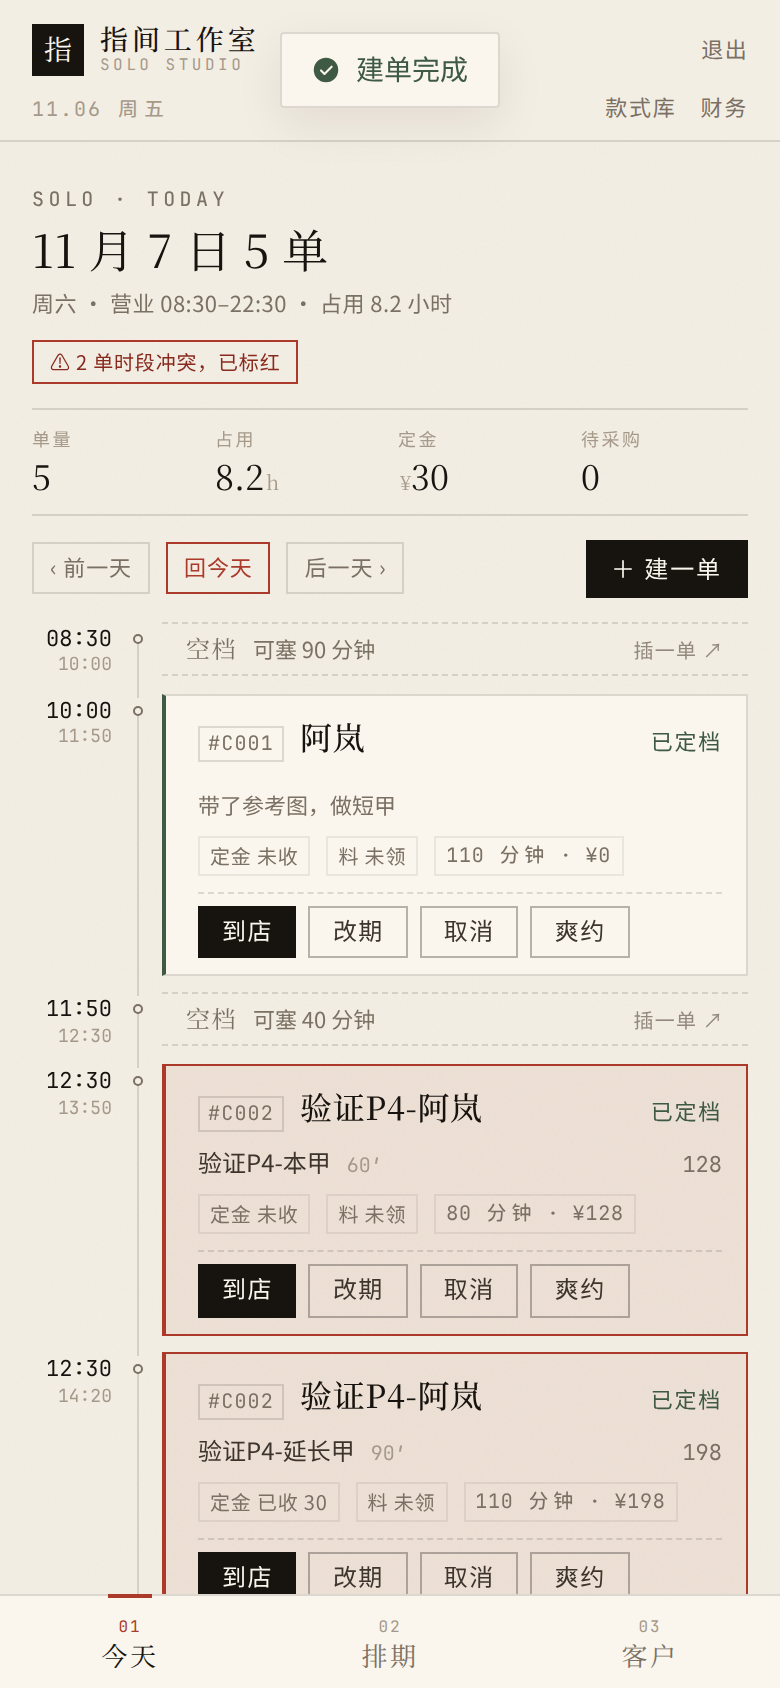
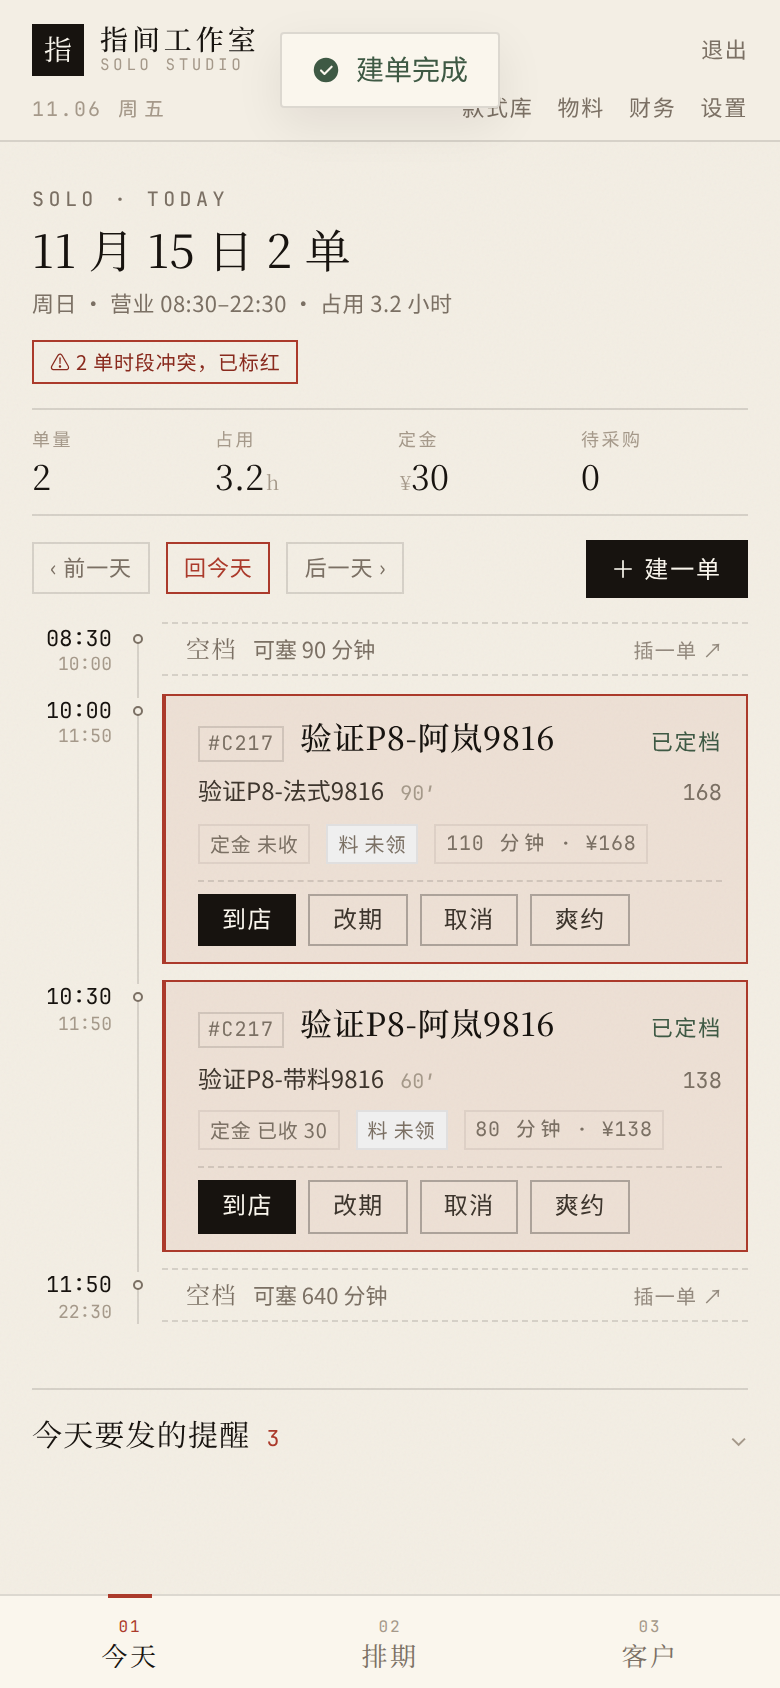
fix(solo): 删除客户后预约卡片改标「客户已删除」+ P8 十条验收清单
P8 逐项验收发现：软删除只置了 deleted=1，接口也返回 clientDeleted=true，
但 clientNickname 仍是原昵称，前端卡片照原样显示真名——「标记」没落地。
改为客户被软删除时昵称显示「客户已删除」，短号保留可追溯。

同时补上 docs/solo/P8-验收清单.md：十条逐项「通过/不通过 + 证据」，
含建单耗时、连做时长、改期两例、插队 90/180、冲突标红、财务对账、
物料领用、390px 与两条构建；并记录本轮抓到的问题与遗留项。

diff --git a/backend/src/main/java/com/nail/demo/solo/service/BookingService.java b/backend/src/main/java/com/nail/demo/solo/service/BookingService.java
@@ -455,12 +455,14 @@ public class BookingService {
             Client client = clients.get(booking.getClientId());
             List<BookingItem> bookingItems = items.getOrDefault(booking.getId(), List.of());
             DepositLedger ledger = ledgers.getOrDefault(booking.getId(), DepositLedger.empty());
+            // 客户被软删除后，历史预约仍要能看：短号留着，昵称换掉，避免满屏真名
+            boolean clientDeleted = client == null || Integer.valueOf(1).equals(client.getDeleted());
             return BookingResponse.builder()
                     .id(booking.getId())
                     .clientId(booking.getClientId())
                     .clientCode(client == null ? null : client.getCode())
-                    .clientNickname(client == null ? "客户已删除" : client.getNickname())
-                    .clientDeleted(client == null || Integer.valueOf(1).equals(client.getDeleted()))
+                    .clientNickname(clientDeleted ? "客户已删除" : client.getNickname())
+                    .clientDeleted(clientDeleted)
                     .startAt(booking.getStartAt())
                     .endAt(booking.getEndAt())
                     .plannedMinutes(booking.getPlannedMinutes())

diff --git a/docs/solo/P8-验收清单.md b/docs/solo/P8-验收清单.md
@@ -1,0 +1,138 @@
+# P8 · 验收清单
+
+> 分支 `feat/solo-studio`；事实来源 `docs/solo/00-brief.md`。
+> 逐项跑 brief 的十条，输出「通过/不通过 + 证据」。自动化脚本 `backend/target/verify-p8.mjs`（本地验收工具，不入库）。
+
+## 结论
+
+**10 条全部通过**（另有 1 条改期细分为两例）。发现并修掉 1 个真问题：删除客户后，历史预约卡片上仍显示原昵称（详见第 9 条）。
+
+| # | 验收项 | 结果 | 证据摘要 |
+|---|---|---|---|
+| 1 | 3 分钟建单 | **通过** | 界面全程 5 秒，卡片 0→1，`定金 已收 30` |
+| 2 | 连做时长 | **通过** | 90 + 120 = 210 分钟，占用 230（含缓冲 20），2 个项目 |
+| 3 | 改期 | **通过** | 107h 时免费改；第二次 `needDeposit=true`（免费额度已用） |
+| 3b | 48h 内扣定金 + 退定撤销 | **通过** | 19h 时 `needDeposit=true` 且未生效；取消后 `CANCELLED` / 定金 `REFUNDED` |
+| 4 | 插队 90 / 180 | **通过** | 180 分钟 409「空档只剩 120，需要 200」；90 分钟成功，来源 `JUMP`，10:00→11:50 |
+| 5 | 冲突标红不丢数据 | **通过** | 先 409 给出冲突单摘要，强排后 2 张卡片都在，页面「⚠ 2 单时段冲突，已标红」，标红 2 张 |
+| 6 | 财务对账 | **通过** | 收入 168 / 支出 58.5 / 净 109.5 / 定金没收 30 / `balanced=true` |
+| 7 | 物料领用与赞助 | **通过** | 胶A 成本 45（库存 3→2）；赞助亮片成本 0，赞助商甲油品牌B，价值 200 |
+| 8 | 移动端 | **通过** | `scrollWidth=390=viewport`，时间轴 360px < 可视 797px |
+| 9 | 删除客户 | **通过** | 预约保留，卡显示「客户已删除」，客户搜索 0 条 |
+| 10 | 两条构建 | **通过** | `npm run build` exit 0；`mvn package` exit 0（12 例单测全绿） |
+
+截图：建单结果 `docs/screenshots/solo-create.png`，冲突标红 `docs/screenshots/solo-conflict.png`。
+
+## 逐条说明
+
+### 1 · 3 分钟建单
+
+从点「＋ 建一单」到卡片出现在时间轴上：选客户（搜昵称）→ 选款式 → 定时间 → 勾选收定金 → 保存。
+
+```
+耗时 5s，卡片 0→1，定金 已收 30
+```
+
+远低于 3 分钟。真正拖时间的不是点选，是老板临时找客户——所以建单抽屉里留了「回车快速建档」。
+
+### 2 · 连做
+
+一单两个项目（法式 90 + 延长 120）：
+
+```
+planned=210 分钟，占用 230 分钟（含缓冲 20），项目 2 个
+```
+
+`end_at = start + Σ项目时长 + 缓冲`，和 brief 的 90 + 120 + 缓冲一致。
+
+### 3 · 改期
+
+- 距开始 107 小时（>48h）首次改期：`free=true / changed=true`；
+- 紧接着再改：停在 `needDeposit=true`，未改期，话术「免费改期已经用过，改期需扣 30 元定金：请选择退还/没收/仍免费」；
+- 距开始 19 小时改期：同样停在 `needDeposit=true`；
+- 该单随后「退定并撤销」：`CANCELLED`，定金 `REFUNDED`。
+
+### 4 · 插队
+
+构造场景：先取消 10:00 那单，而 12:10 还有一单，所以 10:00 起的空档只剩 130 分钟。
+
+```
+180 分钟：HTTP 409「空档不足：从该时刻起只剩 120 分钟，本单需要 200 分钟（含缓冲 20 分钟）」
+90 分钟：2026-11-12 10:00:00 → 11:50:00，来源 JUMP
+```
+
+（「只剩 120」是扣掉 10 分钟缓冲口径的表述：130 − 10 = 120，需要 180 + 20 = 200，仍然不够。）
+
+### 5 · 冲突
+
+同段再建一单 → 409 + 冲突单摘要（「撞上的单：」）；点「仍然强排」后两单都在时间轴上：
+
+```
+卡片 2 张，页面提示「⚠ 2 单时段冲突，已标红」，标红 2 张
+```
+
+数据一条没丢，只是把冲突摆到明面上。
+
+### 6 · 财务
+
+一天 3 单，其中 1 单爽约、定金没收；另记一笔尾款收入与一笔买料支出：
+
+```
+收入 168 / 支出 58.5 / 净 109.5 / 定金没收 30 / balanced=true
+```
+
+概览（SQL 聚合）与三本明细（逐笔累加）一致。
+
+### 7 · 物料
+
+一单领用两种料：胶A 1 瓶（成本 45）、赞助亮片 2 包（成本记 0）。
+
+```
+胶A 成本 45（库存 3→2），赞助亮片 成本 0 / 赞助商 甲油品牌B / 价值 200
+```
+
+赞助物料成本归零、赞助信息另外记，账上不把赞助算成支出。
+
+### 8 · 移动端
+
+390×844：
+
+```
+scrollWidth=390 / viewport=390，时间轴 360px / 可见高度 797px
+```
+
+无横向滚动，当天时间轴一屏装得下。
+
+### 9 · 删除客户
+
+建客户 + 一单 → 删除客户：
+
+```
+预约仍在（id=175），卡片显示「客户已删除」，客户搜索命中 0 条
+```
+
+**这一条抓住了真问题**：原来软删除只置了 `deleted=1`，接口也返回了 `clientDeleted=true`，但 `clientNickname` 还是原昵称——前端卡片照原样显示真名，等于「标记」没落地。已修：`BookingService.toResponses` 在客户被软删除时把昵称换成「客户已删除」，短号保留可追溯。
+
+### 10 · 构建
+
+```
+npm run build   -> exit 0（4.79s）
+mvn package     -> exit 0（Tests run: 12, Failures: 0；BUILD SUCCESS）
+```
+
+`mvn package` 顺带验证了 12 例单测与可执行 jar 的打包。
+
+## 复跑方法
+
+```bash
+cd backend
+bash target/run-p8.sh     # 内部会先跑 npm run build 与 mvn package，再起服务跑十条
+```
+
+`target/` 下的 `verify-p8.mjs`、`run-p8.sh` 是本地验收工具，不入库。
+
+## 遗留与说明
+
+1. **改期后的「待通知清单」**目前只在排期页展示与标记，P7 的提醒清单还没有把它并进「今天要发的微信」——如果要做，是一条很小的增量（把 `notified=0` 的变更按日期塞进对应分组）。
+2. **完成单不自动写尾款收入**：仍然由老板「记一笔」。这是刻意留的手动环节，避免金额算错时对不上账。
+3. **没有做的**：在线支付、客户自助端、小程序、评价体系、营销分析、多美甲师排班、自动排班算法、复杂权限（brief 的「明确不做」）。
